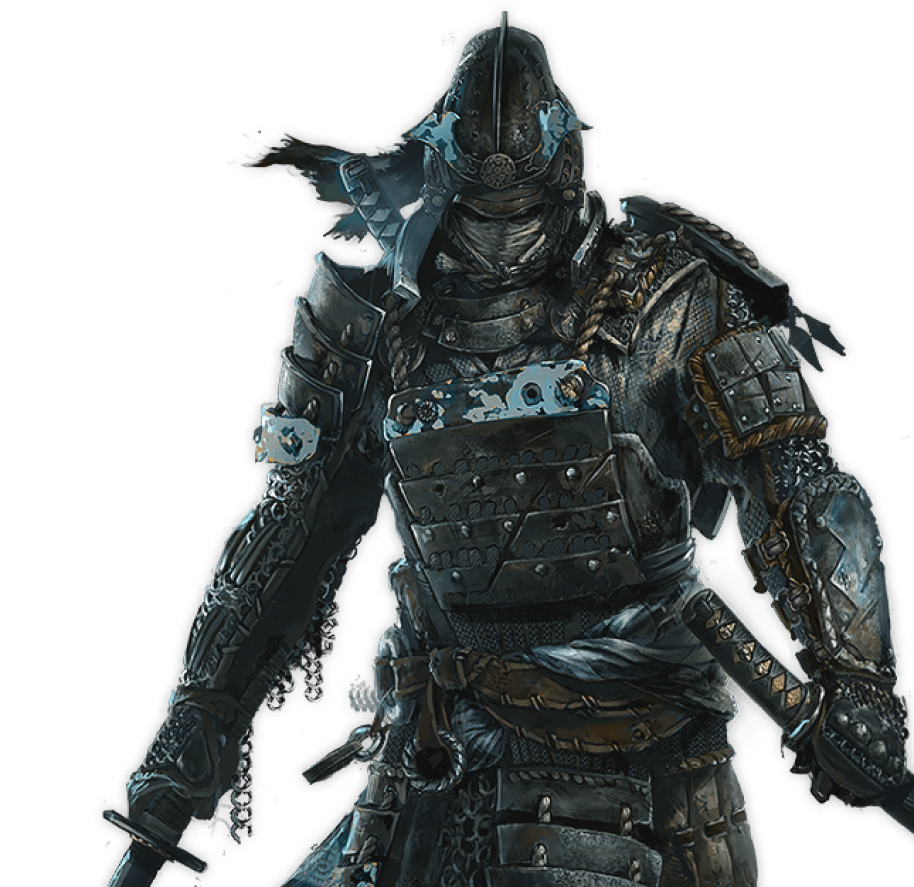
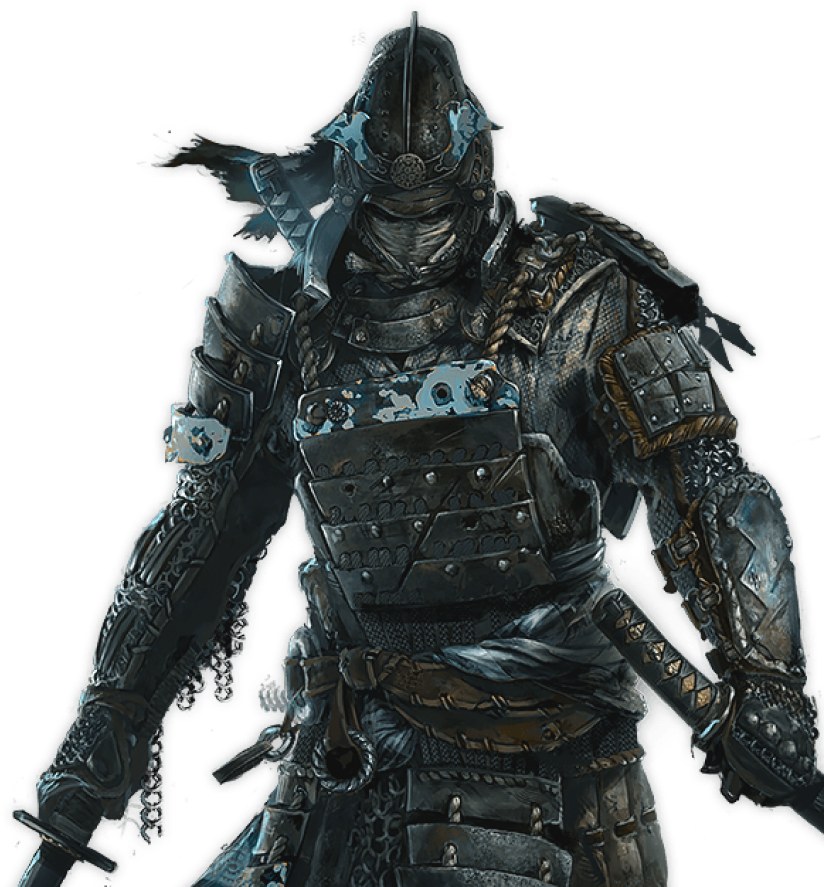
initial samurai

diff --git a/root/index.html b/root/index.html
@@ -20,10 +20,10 @@
 
 <body>
     <div class="wrapper">
-        <header class="header-header">
+        <header class="header-header"> 
 
     <div class="container-340">
-        <div class="header">
+        <div class="header"> 
 
             <div class="header__logo">
                 <a href=""><img src="img/logo.png" alt="" class="logo__img"></a>
@@ -63,13 +63,17 @@
             <h1 class="hero__content-title">
                 shinobi<span>-ваша стратегия без ограничений</span>
             </h1>
+
             <p class="hero__content-text">СТРАТЕГИЯ. ИНДИКАТОРЫ. АВТОТРЕЙДИНГ.</p>
+            
             <div class="hero__content-trade">
                 <span>*БЕЗ комиссий за сделки</span>
             </div>
+
             <button class="hero__content-btn registration-btn">
                 <span>РЕГИСТРАЦИЯ</span>
             </button>
+            
             <div class="hero__content-next next">
                 <a href="">
                     <img src="img/arrow-next.svg" alt="">
@@ -187,11 +191,12 @@
                     
                 </div>
             </div>
-            <div class="samurai__content-next next">
-                <a href="">
-                    <img src="img/arrow-next.svg" alt="">
-                </a>
-            </div>
+            
+        </div>
+        <div class="samurai__content-next next">
+            <a href="">
+                <img src="img/arrow-next.svg" alt="">
+            </a>
         </div>
     </div>
 </section>

diff --git a/root/css/style.css b/root/css/style.css
@@ -224,8 +224,6 @@ h6 {
 }
 .header {
   display: flex;
-  margin: 0 0 30px 0;
-  padding: 25px 0 0 0px;
   transition: 0.5s;
   align-items: center;
 }
@@ -757,15 +755,16 @@ h6 {
 }
 .samurai__content .samurai__content__left .content__left-img .content__left-binance {
   position: absolute;
-  top: -36px;
+  top: 46px;
   right: 47px;
 }
 .samurai__content .samurai__content__left .content__left-img .content__left-samurai {
   position: relative;
-  left: -94px;
+  left: -10px;
 }
 .samurai__content .samurai__content__right {
   display: flex;
+  margin: 189px 0 0 82px;
 }
 .samurai__content .samurai__content__right .samurai__list__colum .samurai__list__title {
   font-family: "Orbitron";
@@ -775,8 +774,12 @@ h6 {
   text-transform: uppercase;
   max-width: 415px;
 }
+.samurai__content .samurai__content__right .samurai__list__colum ul {
+  margin: 40px 0 0 -55px;
+}
 .samurai__content .samurai__content__right .samurai__list__colum ul li {
   width: 455px;
+  padding: 0 0 20px 0;
 }
 .samurai__content .samurai__content__right .samurai__list__colum ul li p {
   font-size: 20px;
@@ -789,4 +792,8 @@ h6 {
 }
 .samurai__content .samurai__content__right .samurai__list-arrow {
   padding: 0 0 0 36px;
+  margin: 120px 0 0 30px;
+}
+.samurai__content .samurai__content__right .samurai__list-arrow .list__items-arrow .list__item-arrow {
+  padding: 0 0 60px 0;
 }

diff --git a/root/css/style.min.css b/root/css/style.min.css
@@ -224,8 +224,6 @@ h6 {
 }
 .header {
   display: flex;
-  margin: 0 0 30px 0;
-  padding: 25px 0 0 0px;
   transition: 0.5s;
   align-items: center;
 }
@@ -757,15 +755,16 @@ h6 {
 }
 .samurai__content .samurai__content__left .content__left-img .content__left-binance {
   position: absolute;
-  top: -36px;
+  top: 46px;
   right: 47px;
 }
 .samurai__content .samurai__content__left .content__left-img .content__left-samurai {
   position: relative;
-  left: -94px;
+  left: -10px;
 }
 .samurai__content .samurai__content__right {
   display: flex;
+  margin: 189px 0 0 82px;
 }
 .samurai__content .samurai__content__right .samurai__list__colum .samurai__list__title {
   font-family: "Orbitron";
@@ -775,8 +774,12 @@ h6 {
   text-transform: uppercase;
   max-width: 415px;
 }
+.samurai__content .samurai__content__right .samurai__list__colum ul {
+  margin: 40px 0 0 -55px;
+}
 .samurai__content .samurai__content__right .samurai__list__colum ul li {
   width: 455px;
+  padding: 0 0 20px 0;
 }
 .samurai__content .samurai__content__right .samurai__list__colum ul li p {
   font-size: 20px;
@@ -789,4 +792,8 @@ h6 {
 }
 .samurai__content .samurai__content__right .samurai__list-arrow {
   padding: 0 0 0 36px;
+  margin: 120px 0 0 30px;
+}
+.samurai__content .samurai__content__right .samurai__list-arrow .list__items-arrow .list__item-arrow {
+  padding: 0 0 60px 0;
 }

diff --git a/src/scss/components/samurai.scss b/src/scss/components/samurai.scss
@@ -14,20 +14,21 @@
 
                 .content__left-binance{
                     position: absolute;
-                    top: -36px;
+                    top: 46px;
                     right: 47px;
                 
                 }
 
                 .content__left-samurai{
                     position: relative;
-                    left: -94px;
+                    left: -10px;
                 }
             }
         }
         
         .samurai__content__right{
-           display: flex;
+            display: flex;
+            margin: 189px 0 0 82px;
 
             .samurai__list__colum{
                  
@@ -42,9 +43,11 @@
                 }
 
                 ul{
-
+                    margin: 40px 0 0 -55px;
+                    
                     li{
                         width: 455px;
+                        padding:  0 0 20px 0;
                         p{
                             
                             font-size: 20px;
@@ -65,6 +68,13 @@
             }
             .samurai__list-arrow{
                 padding: 0 0 0 36px;
+                margin: 120px 0 0 30px ;
+                .list__items-arrow{
+
+                    .list__item-arrow{
+                        padding: 0 0 60px 0;
+                    }
+                }
             }
         }
     }

diff --git a/src/html/hero.html b/src/html/hero.html
@@ -5,13 +5,17 @@
             <h1 class="hero__content-title">
                 shinobi<span>-ваша стратегия без ограничений</span>
             </h1>
+
             <p class="hero__content-text">СТРАТЕГИЯ. ИНДИКАТОРЫ. АВТОТРЕЙДИНГ.</p>
+            
             <div class="hero__content-trade">
                 <span>*БЕЗ комиссий за сделки</span>
             </div>
+
             <button class="hero__content-btn registration-btn">
                 <span>РЕГИСТРАЦИЯ</span>
             </button>
+            
             <div class="hero__content-next next">
                 <a href="">
                     <img src="img/arrow-next.svg" alt="">

diff --git a/src/html/samurai.html b/src/html/samurai.html
@@ -50,11 +50,12 @@
                     
                 </div>
             </div>
-            <div class="samurai__content-next next">
-                <a href="">
-                    <img src="img/arrow-next.svg" alt="">
-                </a>
-            </div>
+            
+        </div>
+        <div class="samurai__content-next next">
+            <a href="">
+                <img src="img/arrow-next.svg" alt="">
+            </a>
         </div>
     </div>
 </section>

diff --git a/src/html/header.html b/src/html/header.html
@@ -1,7 +1,7 @@
-<header class="header-header">
+<header class="header-header"> 
 
     <div class="container-340">
-        <div class="header">
+        <div class="header"> 
 
             <div class="header__logo">
                 <a href=""><img src="img/logo.png" alt="" class="logo__img"></a>

diff --git a/src/scss/components/header.scss b/src/scss/components/header.scss
@@ -1,7 +1,7 @@
 .header{
     display: flex;
-    margin:  0 0 30px 0;
-    padding: 25px 0 0 0px;
+    // margin:  0 0 30px 0;
+    // padding: 25px 0 0 0px;
     transition: 0.5s;
     align-items: center;
 
